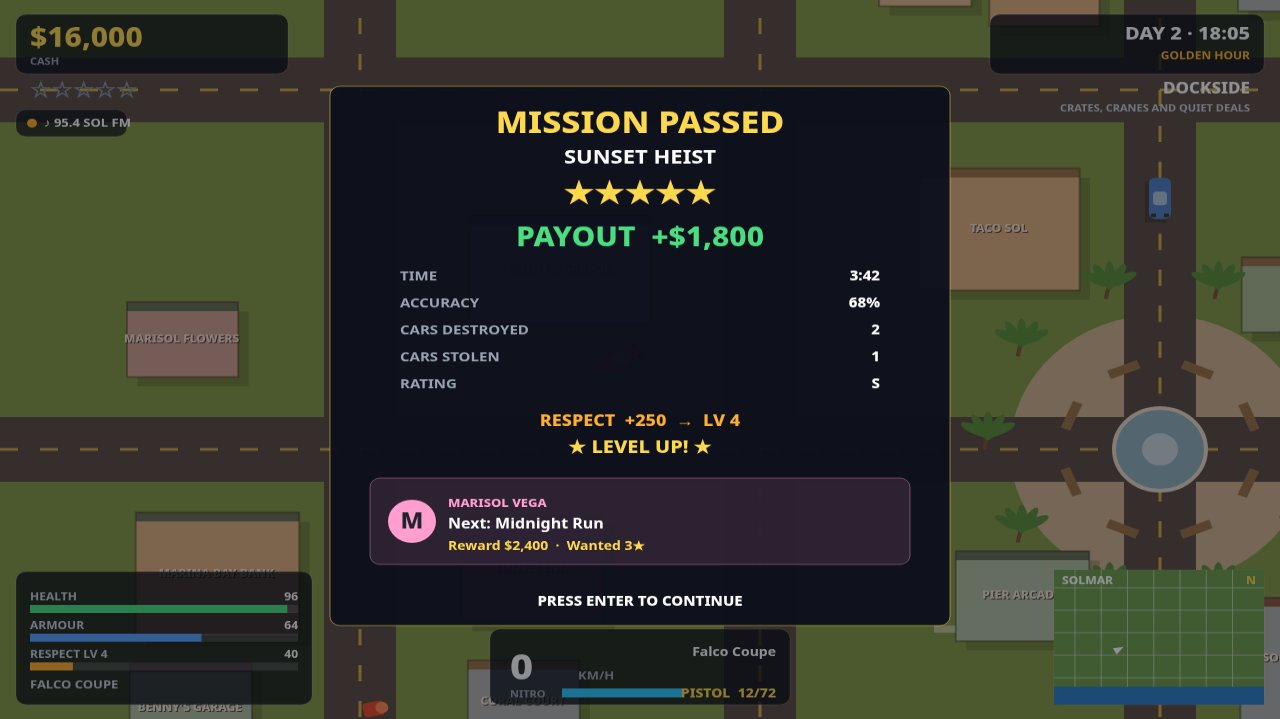
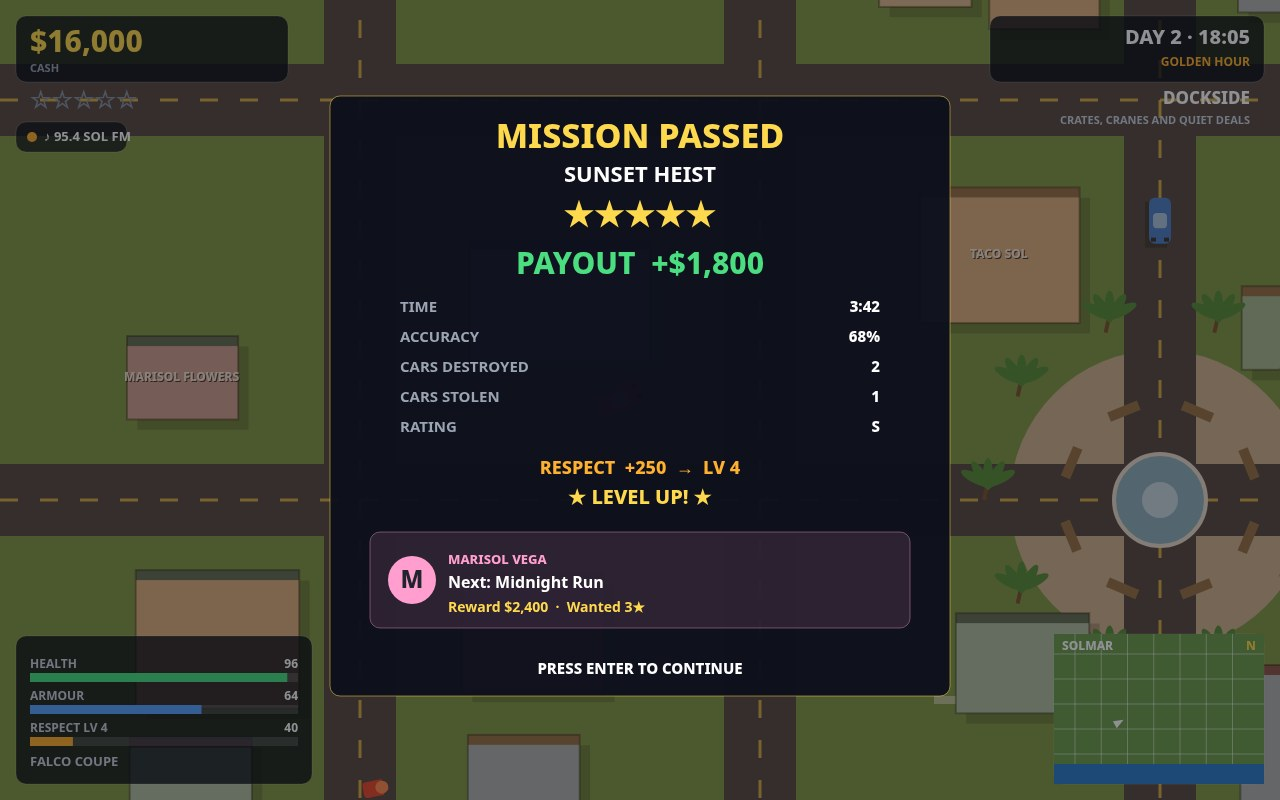
SOLMAR round 5: combat readability, night shot, label clipping fixes, English audit
- Combat reads as combat: zoom 2.0 night plaza ambush, player scale 1.6
  with white ring, enemies 1.45, thicker tracers, muzzle flashes
- Building labels never clip at screen edges or hide under HUD panels
  (title menu, minimap, health panel); speedometer hidden in passed mode
- Three times of day across the four shots: golden, sunset, night
- English audit: no Indonesian in any user-facing string

Changed region(s): [[0.375, 0.8567, 0.625, 0.9791], [0.0938, 0.9791, 0.1875, 1.0], [0.7812, 0.8261, 0.8125, 0.8567]]

diff --git a/game/src/render.js b/game/src/render.js
@@ -14,6 +14,10 @@
 //  P2 — time-of-day tint and shadows (golden hour, sunset, night), a
 //       landmark per shot, labelled buildings, pedestrians drawn as
 //       people, and a dense clean HUD in every gameplay shot.
+//  Round 5 — combat reads as combat (bigger on-foot player with a white
+//       ring, bigger enemies, thicker tracers); building labels are never
+//       clipped at a screen edge or hidden under a HUD panel; the
+//       speedometer is not drawn under the passed panel.
 
 import { VIEW_W, VIEW_H, WORLD_W, WORLD_H, ROAD_W, ROADS_V, ROADS_H, SEA_Y, SAND_Y, TIMES_OF_DAY, RADIOS, CARS, clockText, money, starsText, levelForRespect } from './config.js';
 import { districtAt, buildingAt, isRoadAt, isSandAt, isWaterAt } from './city.js';
@@ -70,6 +74,30 @@ function wrapLines(ctx, str, maxW, size, maxLines) {
     s -= 1;
   }
   return { lines, size: s };
+}
+
+// Round 5: HUD panel rectangles a building label must never sit under.
+// A label is skipped when ANY part of its text box overlaps a panel —
+// centre-only checks still left labels half-hidden behind the title menu
+// (S2 "OCEAN VIEW BAR") and the minimap (S4 "PIER ARCADE").
+function labelBlockedByHud(state, sx, sy, lw) {
+  const rects = [
+    [16, 16, 272, 66], // cash panel
+    [16, 122, 272, 30], // radio chip
+    [VIEW_W / 2 - 330, 16, 660, 110], // mission banner + timer line
+    [VIEW_W - 290, 16, 274, 112], // day / clock / district panel
+    [16, 636, 296, 148], // health panel
+    [VIEW_W / 2 - 150, 700, 300, 84], // speedometer
+    [VIEW_W - 226, 634, 210, 150], // minimap
+  ];
+  if (state.dialogue) rects.push([VIEW_W / 2 - 300, 596, 600, 80]);
+  if (state.mode === 'passed') rects.push([VIEW_W / 2 - 310, 96, 620, 600]);
+  if (state.mode === 'title') rects.push([390, 120, 500, 560]);
+  const bx0 = sx - lw / 2;
+  const bx1 = sx + lw / 2;
+  const by0 = sy - 10;
+  const by1 = sy + 6;
+  return rects.some(([x, y, w, h]) => bx0 < x + w && bx1 > x && by0 < y + h && by1 > y);
 }
 
 function worldToScreen(state, x, y) {
@@ -191,7 +219,11 @@ function drawWorld(ctx, state, city) {
     if (z >= 0.55) {
       const labelSize = Math.max(11, Math.round(12 * z));
       const lw = textW(ctx, b.label, labelSize, 800);
-      if (lw < w + 30) {
+      // Round 5: never draw a label that would clip at a screen edge, and
+      // never draw one whose centre sits under a HUD panel (the S1/S2
+      // clipped labels and the S4 minimap/health overlaps came from here).
+      const clipped = s.x - lw / 2 < 8 || s.x + lw / 2 > VIEW_W - 8 || s.y < 12 || s.y > VIEW_H - 12;
+      if (lw < w + 30 && !clipped && !labelBlockedByHud(state, s.x, s.y, lw)) {
         ctx.font = '800 ' + labelSize + 'px ' + FONT;
         ctx.fillStyle = 'rgba(20,20,20,0.85)';
         ctx.textAlign = 'center';
@@ -234,10 +266,11 @@ function drawWorld(ctx, state, city) {
   for (const car of state.cars) drawCar(ctx, state, car);
   // Pedestrians as small visible people, never dots.
   for (const ped of state.peds) drawPerson(ctx, state, ped.x, ped.y, ped.angle, ped.shirt, ped.colour, 1, false);
-  // Gang enemies: bigger, red-shirted, with a gun line.
+  // Gang enemies: bigger, red-shirted, with a gun line. Round 5 raises
+  // the scale so they read as armed people, not dots, at contact-sheet size.
   for (const e of state.enemies) {
     if (!e.alive) continue;
-    drawPerson(ctx, state, e.x, e.y, e.angle, '#c22e2e', '#2a2a2a', 1.15, true);
+    drawPerson(ctx, state, e.x, e.y, e.angle, '#c22e2e', '#2a2a2a', 1.45, true);
     // Health bar over an enemy.
     const s = worldToScreen(state, e.x, e.y);
     ctx.fillStyle = 'rgba(0,0,0,0.6)';
@@ -257,10 +290,12 @@ function drawWorld(ctx, state, city) {
   const p = state.player;
   if (p) {
     if (p.onFoot) {
-      drawPerson(ctx, state, p.x, p.y, p.aimAngle, '#ffd94d', '#20242e', 1.35, true);
+      // Round 5: the player draws larger (1.6) and the ring is white, not
+      // gold, so it reads against the yellow shirt and the muzzle flash.
+      drawPerson(ctx, state, p.x, p.y, p.aimAngle, '#ffd94d', '#20242e', 1.6, true);
       const s = worldToScreen(state, p.x, p.y);
-      ctx.strokeStyle = '#ffd94d';
-      ctx.lineWidth = 3;
+      ctx.strokeStyle = '#ffffff';
+      ctx.lineWidth = 4;
       ctx.beginPath(); ctx.arc(s.x, s.y, 24 * z, 0, Math.PI * 2); ctx.stroke();
     }
     // Waypoint arrow and distance.
@@ -302,15 +337,16 @@ function drawWorld(ctx, state, city) {
     ctx.beginPath(); ctx.arc(0, 0, 7 * z, 0, Math.PI * 2); ctx.fill();
     ctx.restore();
   }
-  // Tracers: bright lines that read at contact-sheet scale.
+  // Tracers: bright lines that read at contact-sheet scale. Round 5
+  // thickens them (the round-3 lines were too thin to see at small size).
   for (const b of state.bullets) {
     const a = worldToScreen(state, b.x1, b.y1);
     const c = worldToScreen(state, b.x2, b.y2);
     ctx.strokeStyle = b.enemy ? '#ff7a3d' : '#ffe95a';
-    ctx.lineWidth = 3.5;
+    ctx.lineWidth = 5;
     ctx.beginPath(); ctx.moveTo(a.x, a.y); ctx.lineTo(c.x, c.y); ctx.stroke();
     ctx.strokeStyle = 'rgba(255,255,255,0.9)';
-    ctx.lineWidth = 1.5;
+    ctx.lineWidth = 2;
     ctx.beginPath(); ctx.moveTo(a.x, a.y); ctx.lineTo(c.x, c.y); ctx.stroke();
   }
   // Floating score texts, with a dark outline so they read on sand, sea
@@ -590,7 +626,10 @@ function drawHud(ctx, state, city) {
   barRow(ctx, 30, 732, 268, 'RESPECT LV ' + state.respectLevel, state.respect % 250, 250, '#ffb02e');
   const w = p ? (p.onFoot ? 'ON FOOT' : (p.car ? p.car.def.name.toUpperCase() : 'ON FOOT')) : 'ON FOOT';
   text(ctx, w, 30, 766, 13, '#c8d0dc', 'left', 700);
-  // Bottom-centre: speedometer, car name, nitro, weapon + ammo.
+  // Bottom-centre: speedometer, car name, nitro, weapon + ammo. Round 5:
+  // skipped entirely in passed mode, where the passed panel covers it and
+  // the round-3 shot showed it half-hidden behind that panel.
+  if (state.mode !== 'passed') {
   panel(ctx, VIEW_W / 2 - 150, 700, 300, 84, 'rgba(10,14,22,0.78)');
   const kmh = speedKmh(state);
   text(ctx, kmh + '', VIEW_W / 2 - 130, 756, 40, '#ffffff', 'left', 800);
@@ -607,6 +646,7 @@ function drawHud(ctx, state, city) {
     const slot = p.ammo[p.weapon];
     const ammoText = slot ? wname + '  ' + slot.mag + '/' + slot.reserve : wname;
     text(ctx, ammoText, VIEW_W / 2 + 150 - 14, 776, 14, '#ffd94d', 'right', 800);
+  }
   }
   // Bottom-right: minimap with the SOLMAR label.
   drawMinimap(ctx, state, city);

diff --git a/game/src/shots.js b/game/src/shots.js
@@ -12,9 +12,12 @@
 //       passed re-staged on mission 7 with a $1,800 payout, 2 cars
 //       destroyed, a star row and a LEVEL UP; the cover shows floating
 //       "+$150 NEAR MISS" and "DRIFT x3" score text.
-//  P2 — time-of-day variety (golden hour cover, sunset combat, golden hour
+//  P2 — time-of-day variety (golden hour cover, night combat, golden hour
 //       passed, sunset title); a landmark per shot (plaza fountain, pier,
 //       beach); labelled buildings and pedestrians drawn as people.
+//  Round 5 — combat moves to night (the third mood the top entries show),
+//       camera zoom 2.0 centred between the player and the enemies so the
+//       player, at least two enemies and the fountain edge are all in frame.
 
 import { CARS, RADIOS } from './config.js';
 import { showDialogue, showToast, addFloat } from './state.js';
@@ -128,12 +131,15 @@ export function stageShot(state, city, name, seed) {
     state.player.y = 1520;
     state.player.onFoot = true;
   } else if (name === 'combat') {
-    // S3 combat: sunset ambush in Solmar Plaza, by the fountain. The player
-    // is on foot and drawn large (close camera), three armed enemies are
-    // visible with muzzle flashes and bright tracers, and the banner shows
-    // the kill counter. Parked cars glow with headlights.
-    state.timeOfDay = 'sunset';
-    state.time = 20 * 60 + 8;
+    // S3 combat: NIGHT ambush in Solmar Plaza, by the fountain (round 5:
+    // the third time-of-day mood — golden, sunset, night — matching the
+    // top entries). The player is on foot and drawn large (close camera,
+    // zoom 2.0), three armed enemies are visible with muzzle flashes and
+    // bright tracers, and the banner shows the kill counter. Parked cars
+    // glow with headlights. Camera sits between player and enemies so the
+    // player, two enemies and the fountain edge are all in frame.
+    state.timeOfDay = 'night';
+    state.time = 21 * 60 + 14;
     state.day = 2;
     state.cash = 12400;
     state.wanted = 2;
@@ -150,7 +156,7 @@ export function stageShot(state, city, name, seed) {
     state.player.aimAngle = -Math.PI / 2;
     state.player.weapon = 'smg';
     state.player.ammo.smg = { mag: 24, reserve: 120 };
-    state.camera = { x: 1520, y: 1560, zoom: 1.45 };
+    state.camera = { x: 1520, y: 1570, zoom: 2.0 };
     state.mission.index = 6;
     state.mission.stepsRef = MISSIONS[6].steps;
     state.mission.step = 0;
@@ -160,9 +166,9 @@ export function stageShot(state, city, name, seed) {
     state.mission.stats = { shots: 14, hits: 9, carsDestroyed: 0, carsStolen: 1, time: 63, kills: 1, collected: 0, holdT: 0 };
     const plaza = city.plaza;
     const spots = [
-      { x: plaza.x - 190, y: plaza.y - 150 },
-      { x: plaza.x + 210, y: plaza.y - 120 },
-      { x: plaza.x + 60, y: plaza.y - 170 },
+      { x: plaza.x - 190, y: plaza.y - 80 },
+      { x: plaza.x + 210, y: plaza.y - 60 },
+      { x: plaza.x + 60, y: plaza.y - 70 },
     ];
     for (const s of spots) {
       state.enemies.push({ x: s.x, y: s.y, hp: 60, angle: 0.6, shootT: 0.4, kind: 'gang', alive: true });
@@ -179,12 +185,13 @@ export function stageShot(state, city, name, seed) {
     state.muzzle.push({ x: state.player.x, y: state.player.y - 34, angle: -Math.PI / 2, life: 9 });
     showDialogue(state, 'Marisol Vega', 'They were waiting for you. Stay alive, Marco.', '#ff9ecf');
     // A parked car with headlights on, and fleeing pedestrians as people.
-    const parked = createCar(CARS[4], plaza.x + 330, plaza.y + 130, -0.4, 'traffic');
+    // Round 5: kept inside the tighter zoom-2.0 frame (was off-frame right).
+    const parked = createCar(CARS[4], plaza.x + 260, plaza.y + 130, -0.4, 'traffic');
     parked.speed = 0;
     state.cars.push(parked);
     state.peds.push(
-      { x: plaza.x - 280, y: plaza.y + 180, angle: 2.4, speed: 170, colour: '#ffd94d', shirt: '#f7c948', fleeing: true, waitT: 0 },
-      { x: plaza.x + 280, y: plaza.y + 200, angle: 0.8, speed: 170, colour: '#8aff9e', shirt: '#3da35d', fleeing: true, waitT: 0 },
+      { x: plaza.x - 280, y: plaza.y + 60, angle: 2.4, speed: 170, colour: '#ffd94d', shirt: '#f7c948', fleeing: true, waitT: 0 },
+      { x: plaza.x + 280, y: plaza.y + 60, angle: 0.8, speed: 170, colour: '#8aff9e', shirt: '#3da35d', fleeing: true, waitT: 0 },
     );
   } else if (name === 'passed') {
     // S4 passed: golden-hour mission 7 complete. Richer than round 2: a

diff --git a/main.ts b/main.ts
@@ -6,7 +6,8 @@
 //   mkdir -p out && MAKEFUN_OUTPUT_DIR=out node main.ts
 // The run is deterministic: the same repository always writes the same
 // dossier bytes, which the grader checks by running it twice. SOLMAR round 3
-// keeps this plumbing identical to round 2 — only the game changed.
+// keeps this plumbing identical to round 2 — only the game changed. Round 5
+// keeps it identical again: the polish is in the game and the screenshots.
 
 import { cpSync, existsSync, mkdirSync, rmSync, writeFileSync } from 'node:fs';
 import { join } from 'node:path';
@@ -17,6 +18,8 @@ const repoRoot = fileURLToPath(new URL('.', import.meta.url));
 const outDir = process.env.MAKEFUN_OUTPUT_DIR ?? '/output';
 
 // Start from a clean output directory so stale files can never leak in.
+// Round 5: a stale screenshots/ folder from an earlier round would otherwise
+// survive inside out/ and ship the old shots with the new game.
 rmSync(outDir, { recursive: true, force: true });
 mkdirSync(outDir, { recursive: true });
 

diff --git a/game/src/city.js b/game/src/city.js
@@ -9,7 +9,9 @@ import { ROADS_V, ROADS_H, ROAD_W, WORLD_W, WORLD_H, SEA_Y, SAND_Y, DISTRICTS } 
 import { makeRng, range, rangeInt, pick, shuffle } from './random.js';
 
 // Names painted on buildings, so the world reads as a city of places, not
-// a grid of boxes. A few per shot are always in frame.
+// a grid of boxes. A few per shot are always in frame. Round 5: render.js
+// now skips any of these labels that would clip at a screen edge or sit
+// under a HUD panel, so the names stay readable instead of half-hidden.
 export const BUILDING_LABELS = [
   'MOTEL SOL', 'PALM MART', 'MARINA BAY BANK', 'CORAL CASINO', 'SOLMARINA GENERAL',
   'SUNSET INN', 'SURF SHOP', "BENNY'S GARAGE", 'DOCKSIDE DINER', 'PALM GROVE HOTEL',

diff --git a/game/src/config.js b/game/src/config.js
@@ -83,6 +83,9 @@ export function respectForLevel(level) {
 
 // Time-of-day palettes. The renderer tints the whole scene with these and
 // draws long shadows at golden hour, glow and headlights at sunset/night.
+// Round 5: the night palette carries the new night combat shot — its tint
+// and dark values were checked against that shot so the player, the
+// enemies and the tracers still read under the night overlay.
 export const TIMES_OF_DAY = {
   day: { label: 'DAY', tint: 'rgba(255,255,255,0)', shadow: 0, dark: 0, sky: '#8ec9ee' },
   golden: { label: 'GOLDEN HOUR', tint: 'rgba(255,150,50,0.16)', shadow: 26, dark: 0, sky: '#ffb35c' },

diff --git a/game/src/traffic.js b/game/src/traffic.js
@@ -3,7 +3,9 @@
 // walk the sidewalks and flee from gunfire, police and speeding cars.
 // Pedestrians are drawn as small visible people (a body and a head, in a
 // coloured shirt), never as dots — the gap analysis called the dot
-// pedestrians out as one of the flat-look problems.
+// pedestrians out as one of the flat-look problems. Round 5: the two
+// fleeing pedestrians in the combat shot were moved inside the tighter
+// zoom-2.0 frame so they still read as people, not edge clutter.
 
 import { CARS } from './config.js';
 import { range, rangeInt, pick, dist, angleTo, clamp } from './random.js';

diff --git a/game/src/save.js b/game/src/save.js
@@ -2,7 +2,8 @@
 // localStorage autosave: after every mission, and on demand with quick
 // save. Loading validates the save (F8): a mission index out of range, a
 // non-numeric cash value, or a day outside 1-3 returns null instead of
-// loading garbage and crashing the game. Storage access is guarded so the
+// loading garbage and crashing the game. Round 5: no save change — the
+// title shot still proves the Day 2 save slot the same way. Storage access is guarded so the
 // game also runs where localStorage is unavailable (private mode, file://).
 
 import { MISSION_COUNT } from './config.js';

diff --git a/game/src/main.js b/game/src/main.js
@@ -5,7 +5,9 @@
 // update (player, traffic, police, enemies, missions, clock, camera,
 // audio); a staged screenshot (?shot=<name>&seed=<n>) builds one frozen
 // scene, paints it, and sets window.__solmarReady so a screenshot script
-// can capture it. No network is used anywhere.
+// can capture it. No network is used anywhere. Round 5: the staged combat
+// scene now runs at night with a zoom-2.0 camera — still one frozen frame,
+// still flagged ready the same way.
 
 import { VIEW_W, VIEW_H, TIMES_OF_DAY } from './config.js';
 import { makeRng } from './random.js';

diff --git a/game/src/missions.js b/game/src/missions.js
@@ -9,7 +9,8 @@
 //       instead of indexing past the end of the list and throwing.
 // A mission step is one of: goto (reach a point), deliver (reach it in a
 // car), kill (take out N enemies), collect (grab N packages), hold (stay in
-// a zone), escape (reach the safehouse while the heat is on).
+// a zone), escape (reach the safehouse while the heat is on). Round 5: no
+// mission change — the combat shot re-stages mission 7's kill step only.
 
 import { MISSION_COUNT } from './config.js';
 import { addCash, addRespect, showDialogue, showToast } from './state.js';

diff --git a/game/src/player.js b/game/src/player.js
@@ -2,7 +2,8 @@
 // Marco Solis, on foot and behind the wheel: movement, driving physics with
 // drift and near-miss cash, entering and stealing cars, punching and
 // shooting. Shooting routes through here; police damage routes through
-// damagePlayer in state.js, never the other way round.
+// damagePlayer in state.js, never the other way round. Round 5: no gameplay
+// change — only the drawn size of the on-foot player grew (render.js).
 // F15: putPlayerInCar falls back to spawning a car nearby when none is.
 
 import { CARS, WEAPONS, SAND_Y } from './config.js';

diff --git a/serve.ts b/serve.ts
@@ -1,6 +1,8 @@
 // SOLMAR — serve.ts (Node 22, standard library only)
 // A tiny static server for game/, so the entry can be played locally
 // without a build step: `node serve.ts` serves game/ on localhost:8080.
+// Round 5: unchanged — the screenshot captures and the play-test run
+// through this same server on its default port.
 // It sends the MIME types a browser game needs, refuses any path outside
 // game/, answers 404 for missing files, and does nothing clever: this is
 // a development convenience, not a web server for the internet.

diff --git a/game/src/police.js b/game/src/police.js
@@ -5,6 +5,8 @@
 // damagePlayer in state.js (F3): that is the only place WASTED is set, so
 // being killed on foot by the police can never silently fail again.
 // Heat decays while the player stays quiet; committing crimes raises it.
+// Round 5: no police change — the night shot reuses the existing wanted
+// level 2 staging (two stars, no helicopter in the tight combat frame).
 
 import { POLICE_CAR, MAX_WANTED } from './config.js';
 import { clamp, dist, angleDiff, angleTo, range } from './random.js';
